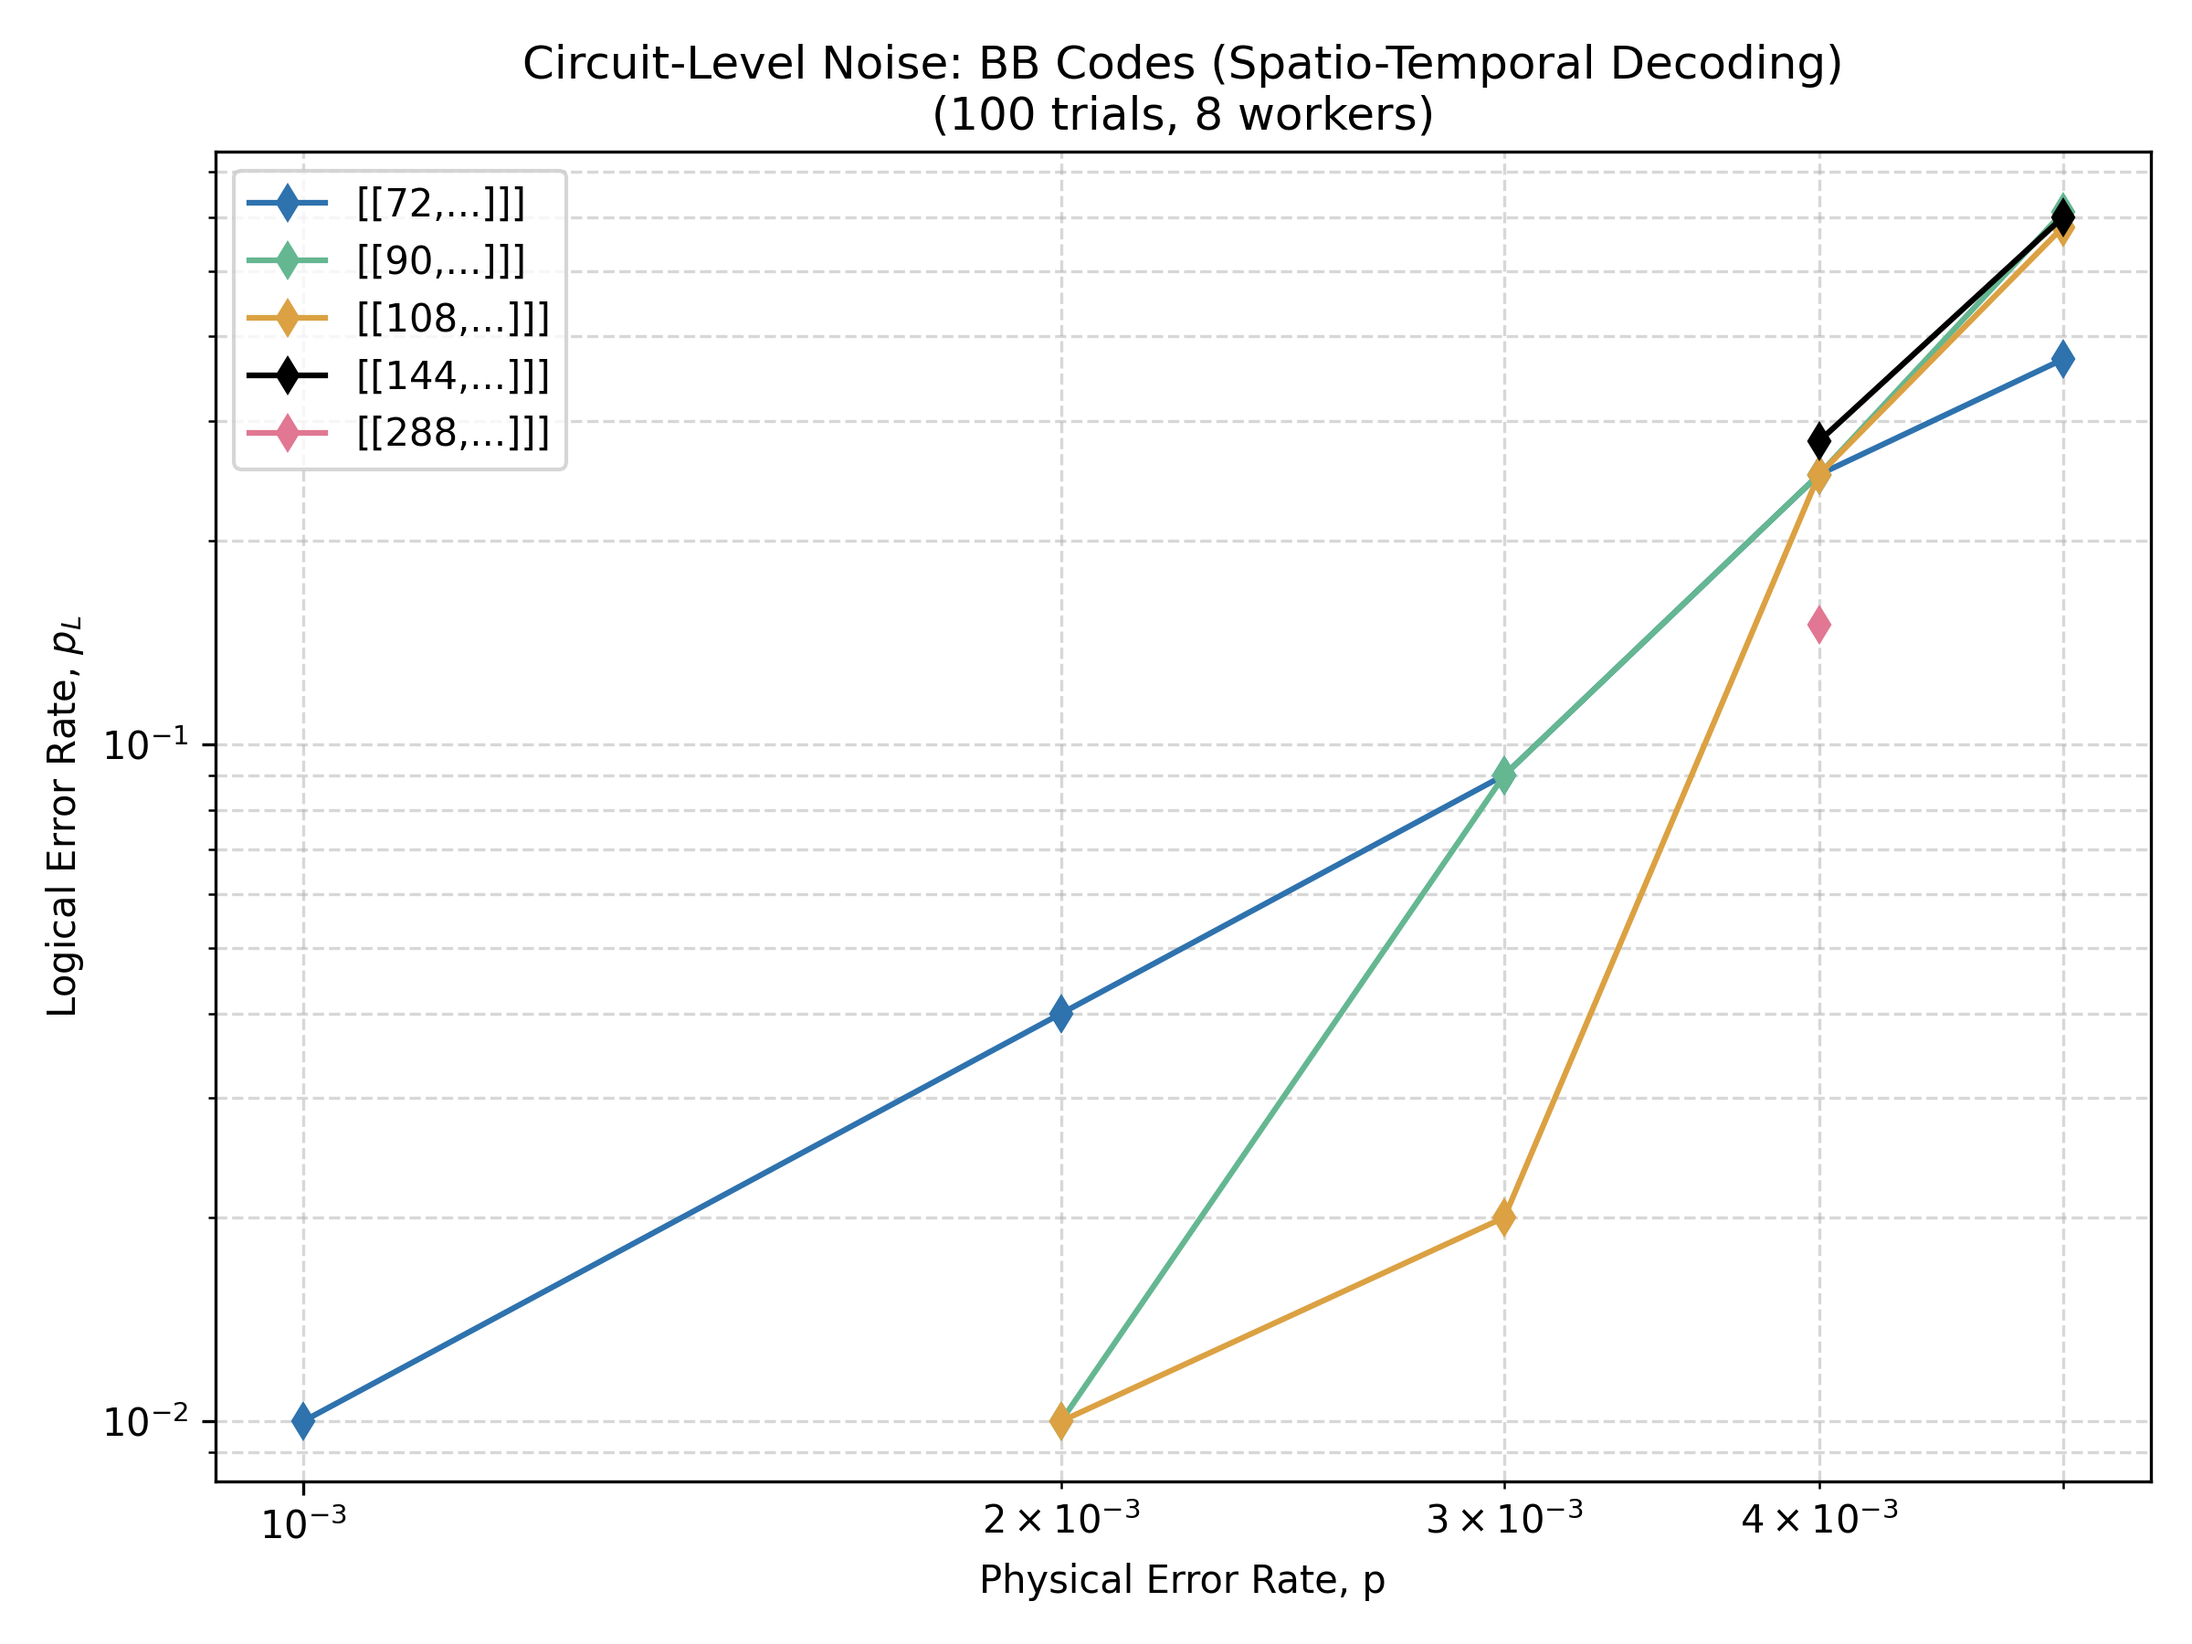
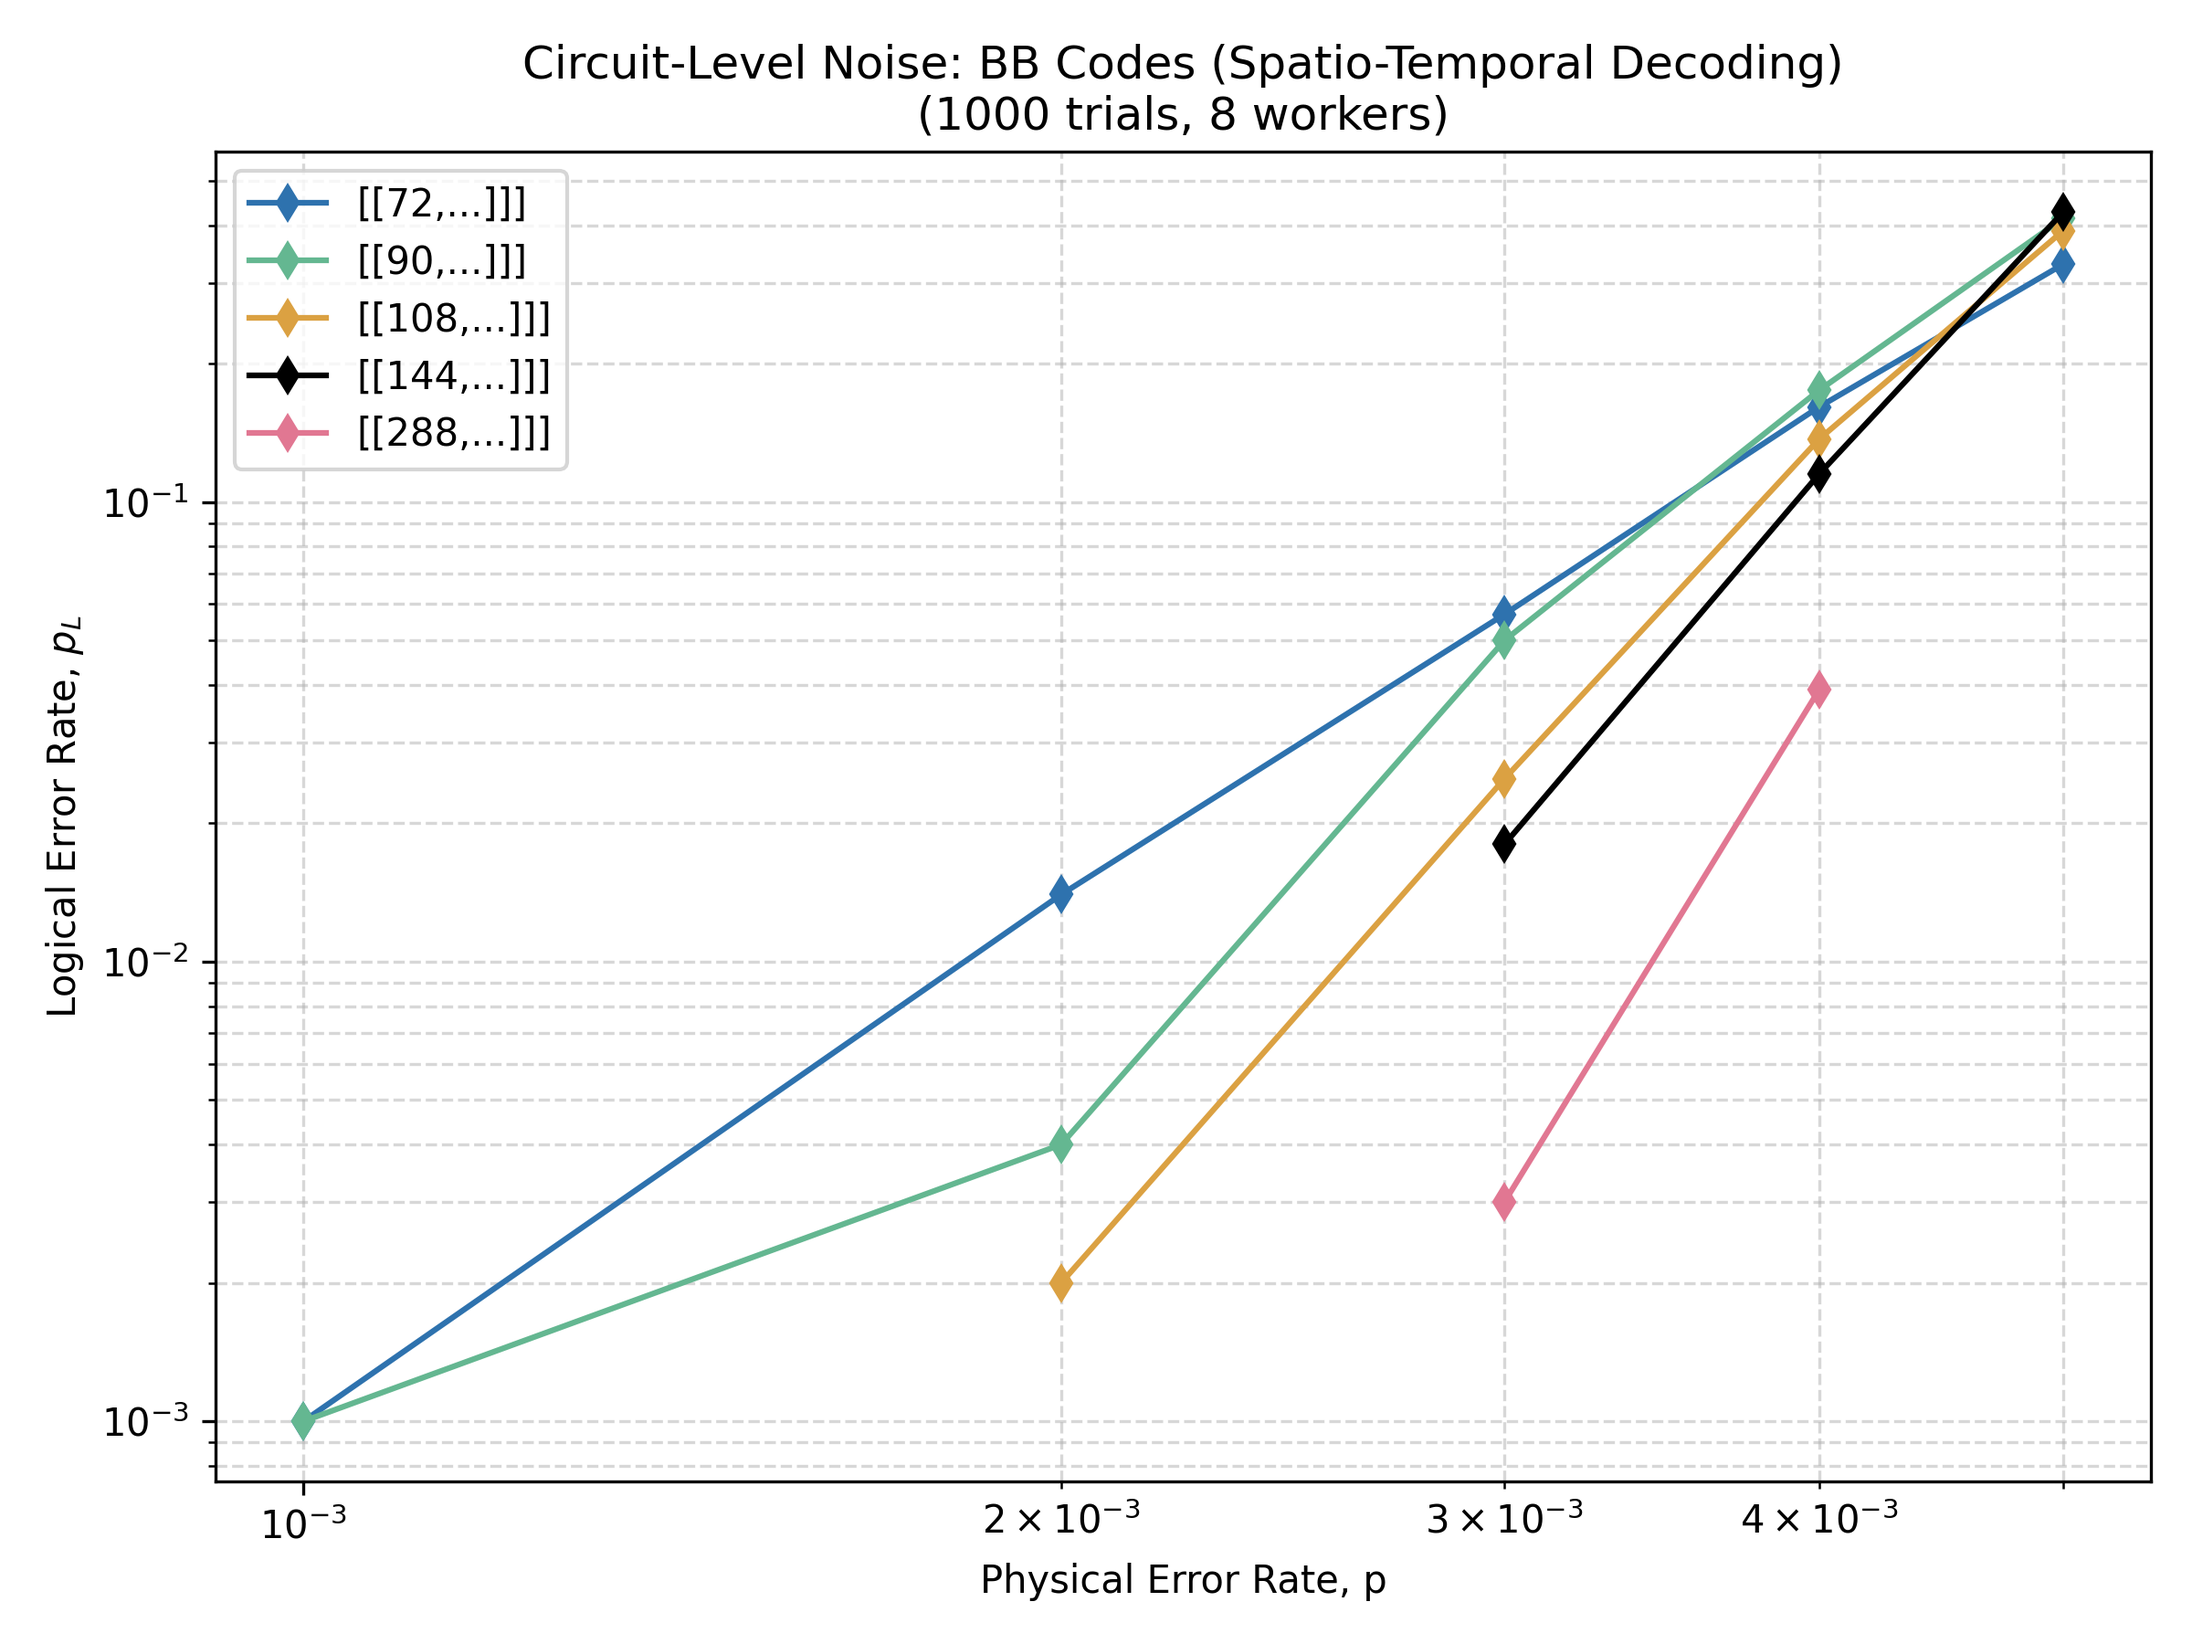
good run

diff --git a/main_circuit.py b/main_circuit.py
@@ -375,8 +375,8 @@ def main():
     """Run spatio-temporal simulation for all codes and error rates."""
     
     # Simulation parameters
-    num_trials = 100  # Start smaller for testing; researchers used 50000
-    maxIter = 10  # BP max iterations
+    num_trials = 1000  # Start smaller for testing; researchers used 50000
+    maxIter = 50  # BP max iterations
     osd_order = 0  # OSD-CS search depth
     num_workers = 8  # M1 Pro performance cores
     
